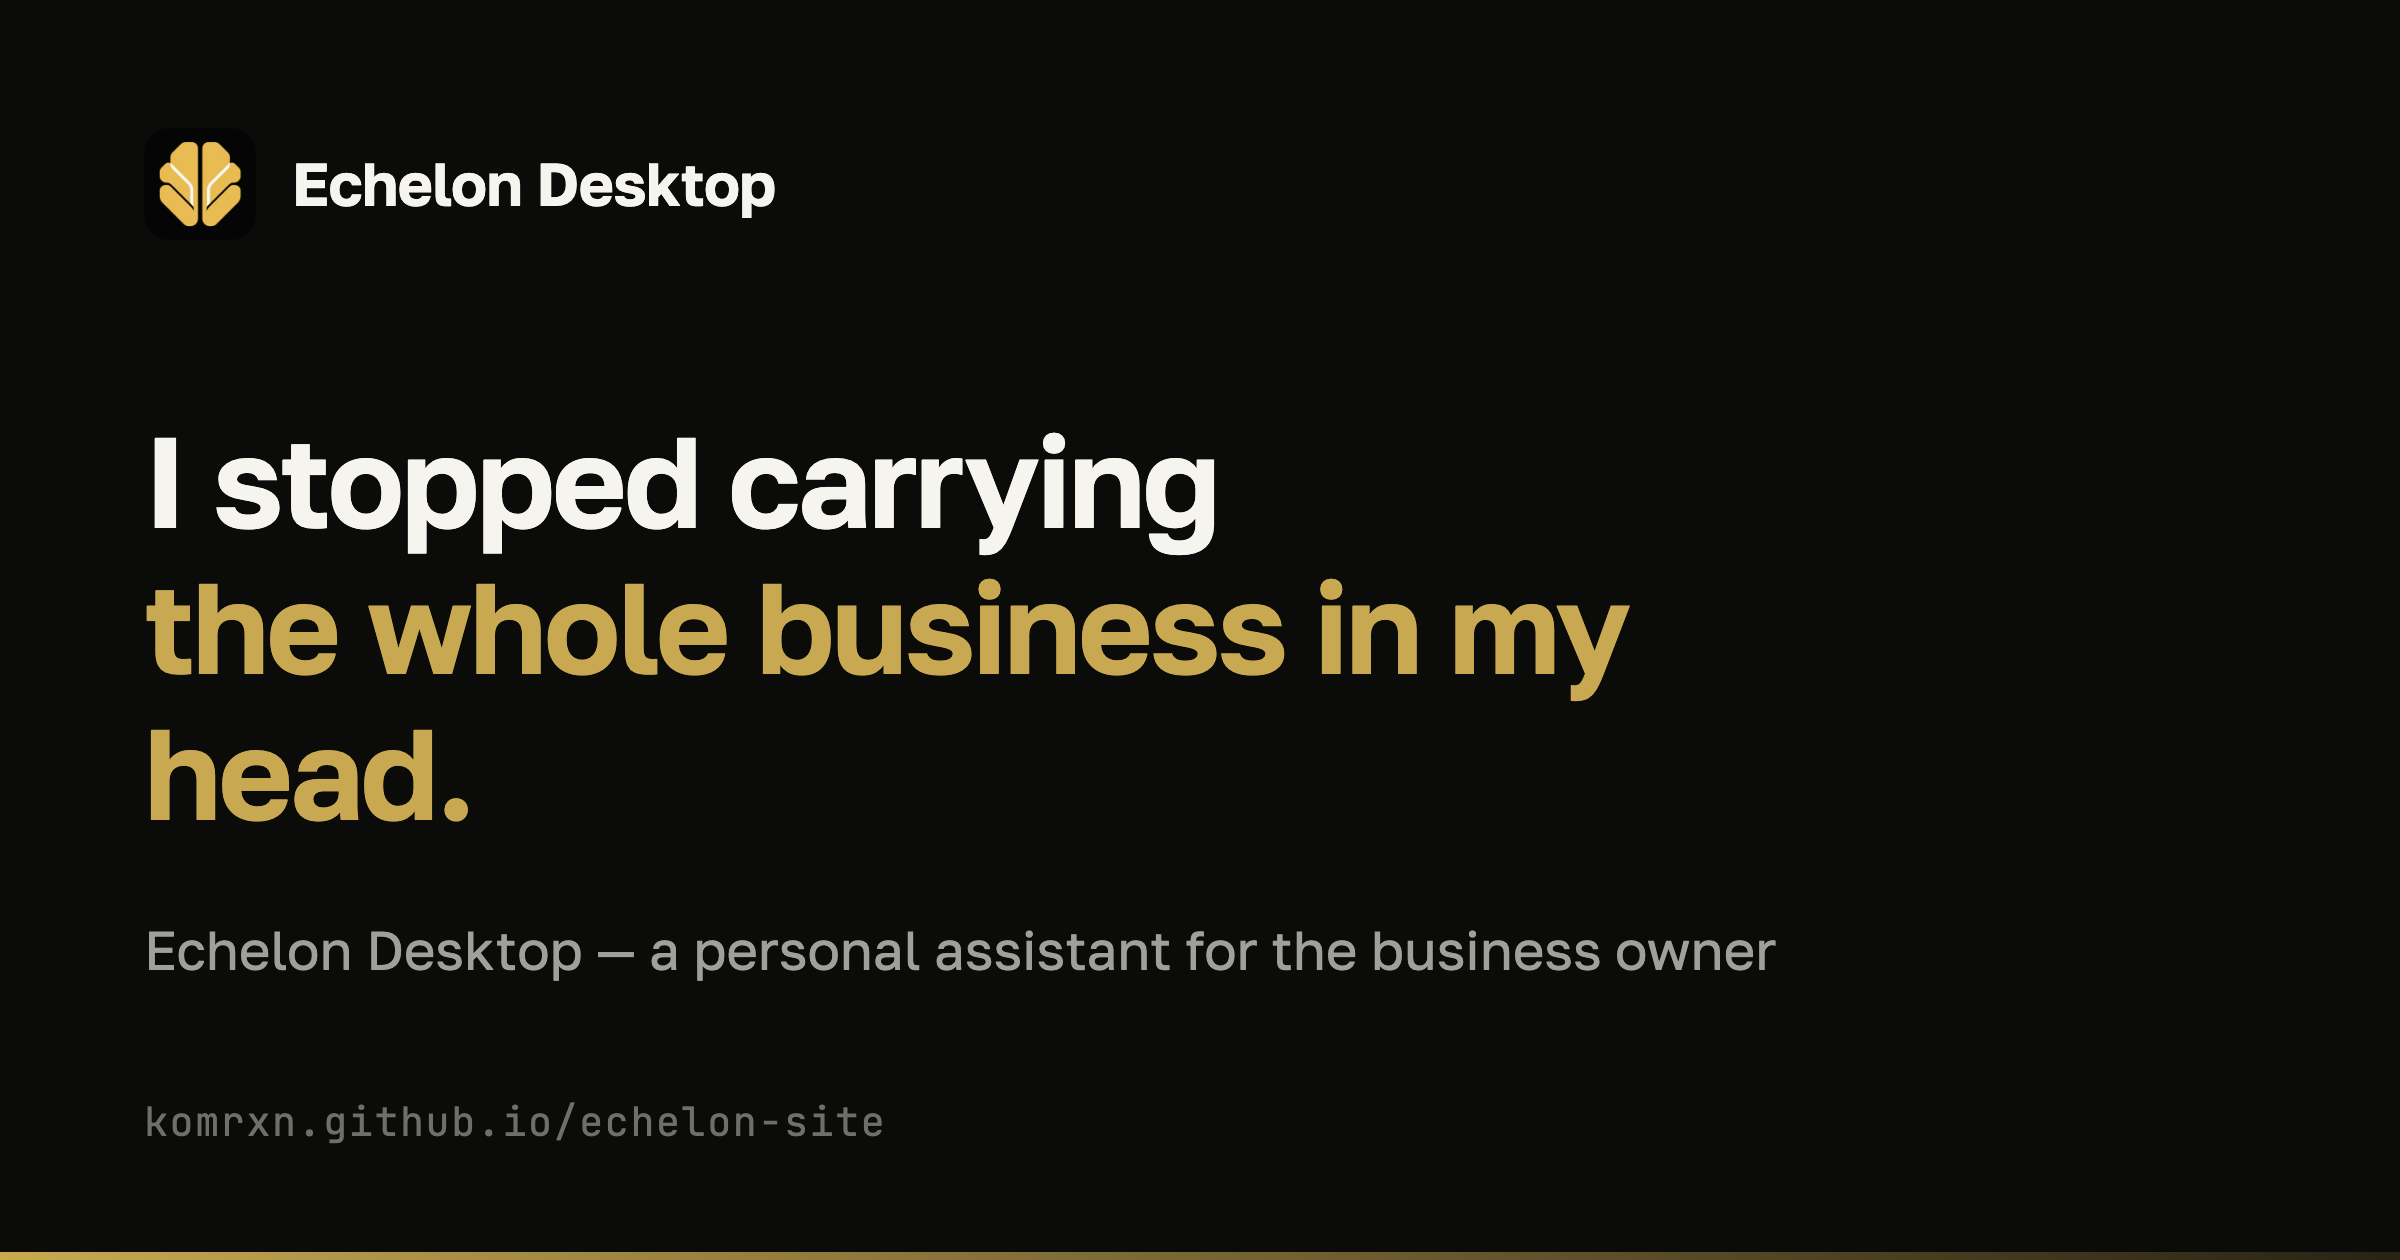
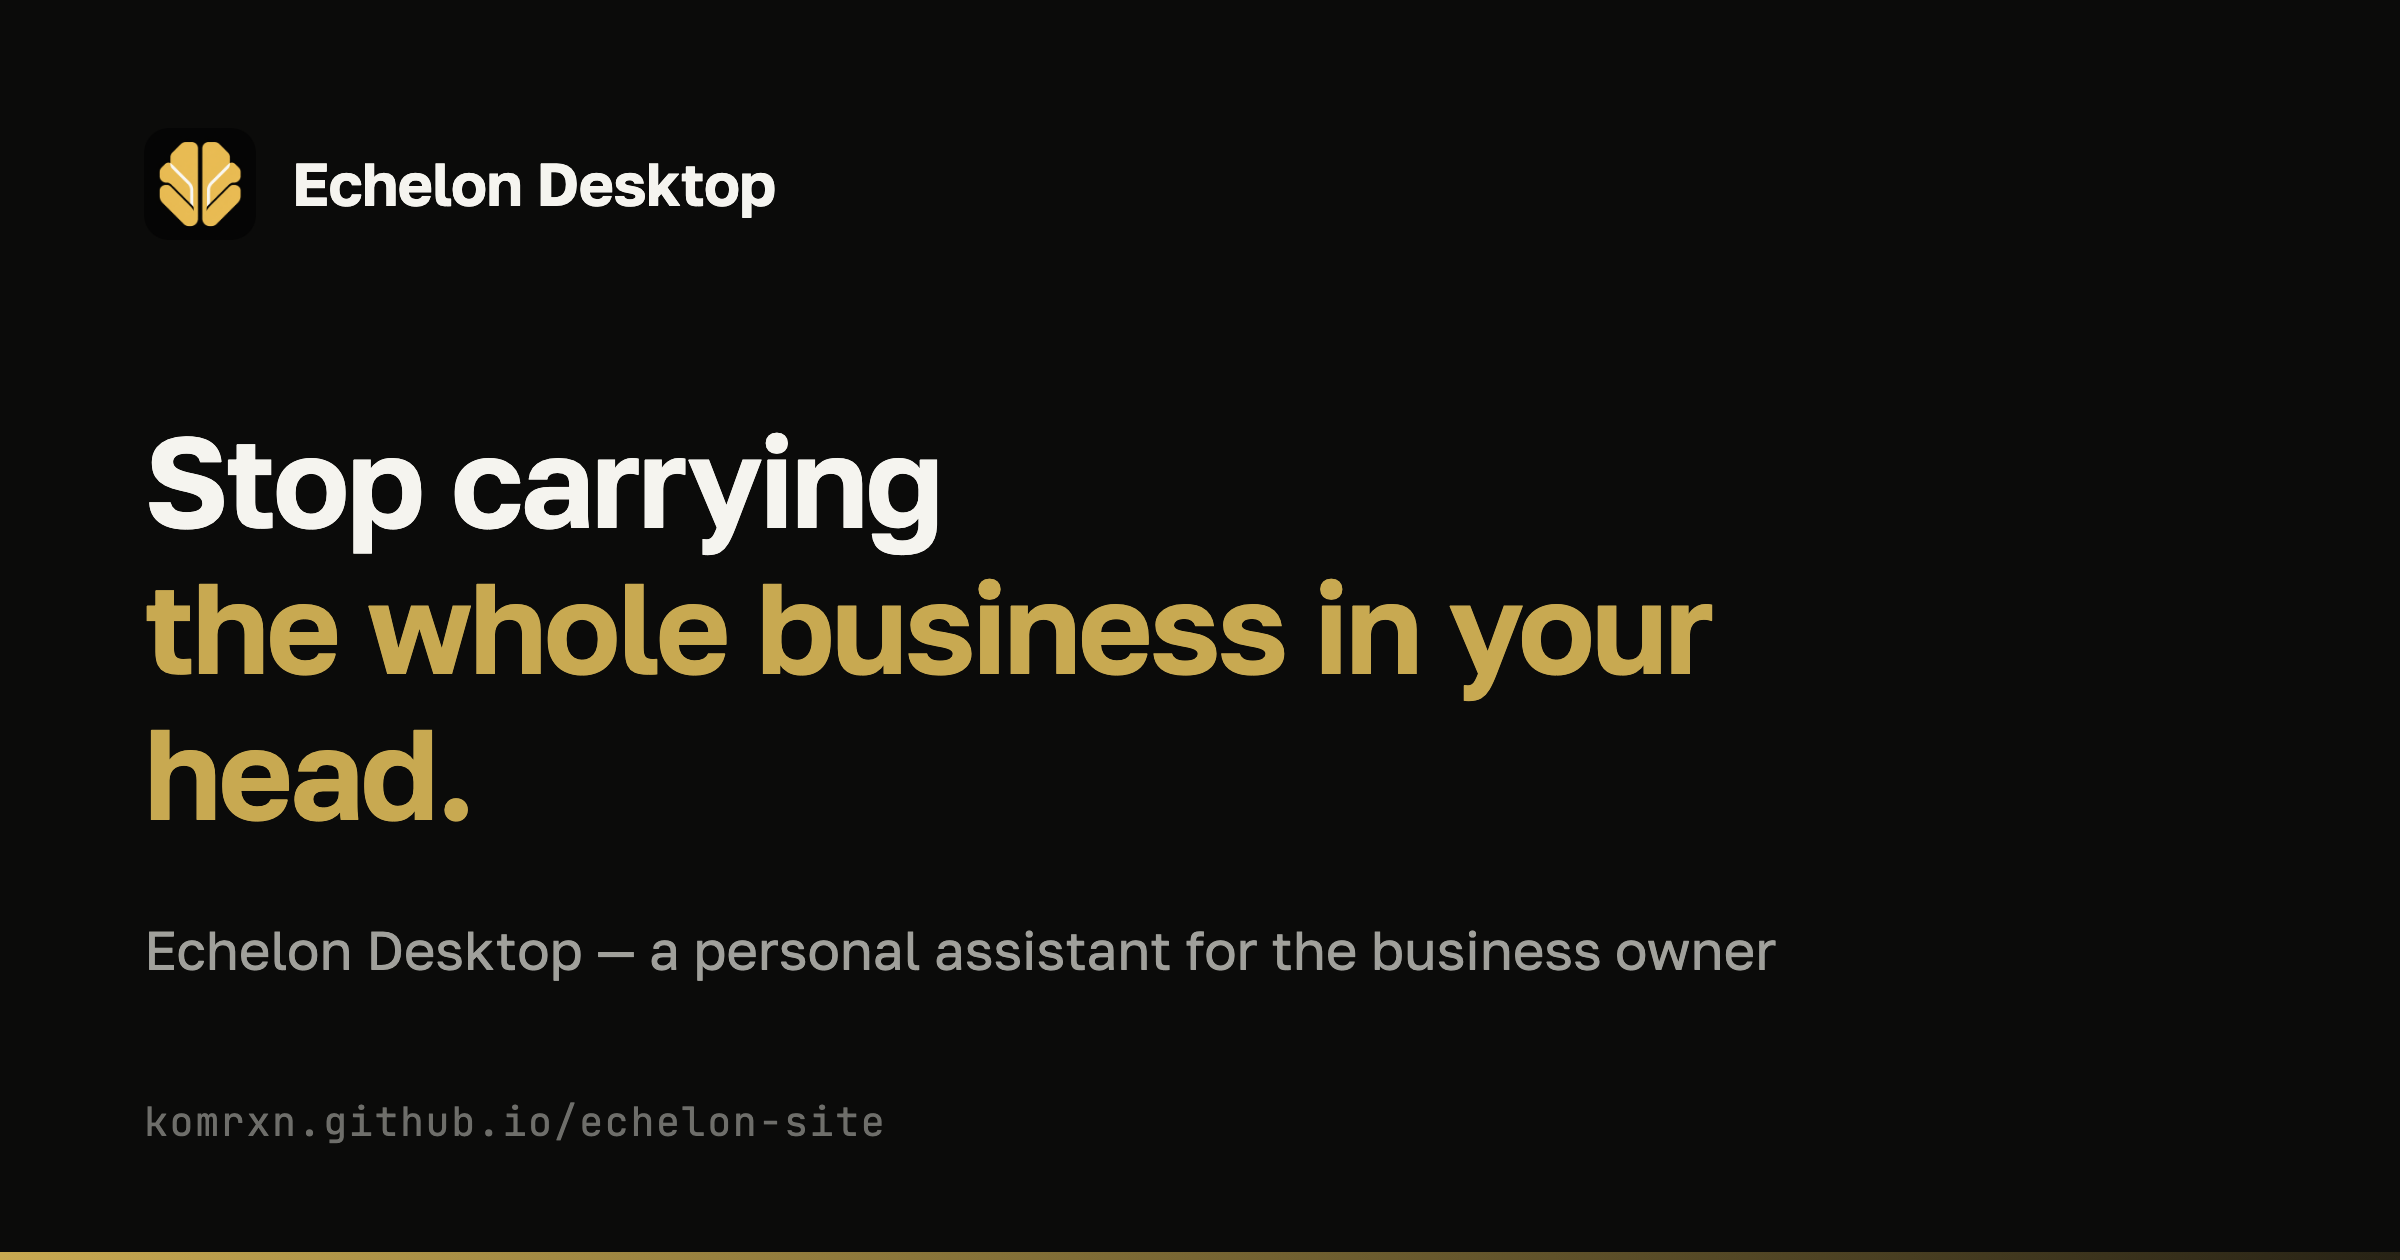
hero: imperative headline in all locales + OG cards

Changed region(s): [[0.0625, 0.3405, 0.5312, 0.4643], [0.5938, 0.4643, 0.7188, 0.5571]]

diff --git a/src/lib/i18n/ru.ts b/src/lib/i18n/ru.ts
@@ -13,7 +13,7 @@ export const ru = {
   },
 
   hero: {
-    h1: 'Я перестал держать\nвесь бизнес в голове.',
+    h1: 'Перестаньте держать\nвесь бизнес в голове.',
     sub: 'Echelon Desktop — личный помощник владельца бизнеса: держит в памяти людей и договорённости, рутину делает сам. Помните Джарвиса у Тони Старка? Идея та же, только Джарвис — кино, а этот живёт на вашем компьютере и умеет ровно то, что показано ниже.',
     cta: 'Посмотреть демо на своём бизнесе',
     ctaNote: 'Живой созвон, 30 минут. Устанавливать ничего не нужно.',

diff --git a/src/lib/i18n/uz.ts b/src/lib/i18n/uz.ts
@@ -10,7 +10,7 @@ export const uz: Dict = {
     cta: 'Demo ko’rish',
   },
   hero: {
-    h1: 'Butun biznesni boshimda\nko’tarib yurishni bas qildim.',
+    h1: 'Butun biznesni boshingizda\nko’tarib yurishni bas qiling.',
     sub:
       'Echelon Desktop — biznes egasining shaxsiy yordamchisi: odamlaringiz bilan kelishuvlaringizni yodida tutadi, kundalik ishni o’zi bajaradi. Toni Starkning Jarvisi esingizdami? G’oya o’sha. Faqat Jarvis — kino, bu esa kompyuteringizda yashaydi va pastda ko’rsatilganlarni aynan qiladi.',
     cta: 'Demoni o’z biznesingizda ko’ring',

diff --git a/src/lib/i18n/en.ts b/src/lib/i18n/en.ts
@@ -12,7 +12,7 @@ export const en: Dict = {
   },
 
   hero: {
-    h1: 'I stopped carrying\nthe whole business in my head.',
+    h1: 'Stop carrying\nthe whole business in your head.',
     sub: 'Echelon Desktop is a personal assistant for the business owner: it holds your people and agreements in memory and does the routine itself. Remember Tony Stark’s Jarvis? Same idea. Except Jarvis is a movie, and this one lives on your computer and can do exactly what this page shows.',
     cta: 'See a demo on your own business',
     ctaNote: 'A live call, 30 minutes. Nothing to install.',
